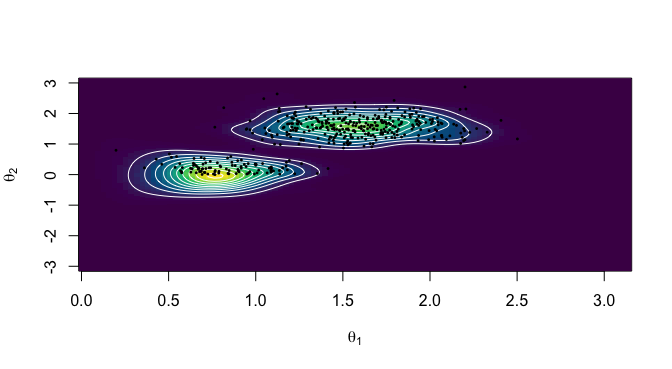
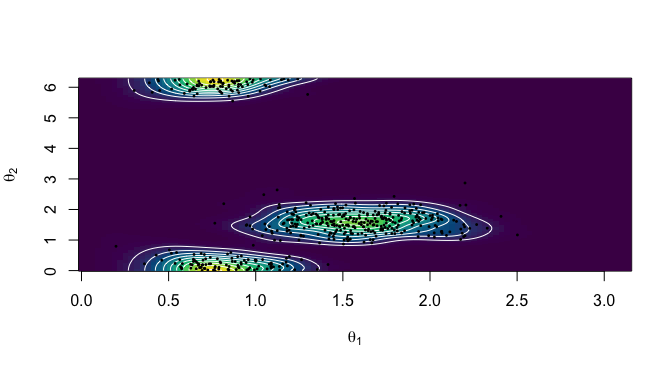
Update docs

diff --git a/README.md b/README.md
@@ -45,9 +45,8 @@ plus the vector `d` of dimensions.
 ### Density estimation on the sphere
 
 ``` r
-set.seed(42)
-
 # A two-component von Mises--Fisher mixture on S^2
+set.seed(42)
 d <- 2
 X <- r_mvmf_polysph(n = 500, d = d, mu = rbind(c(0, 0, 1), c(1, 1, 0) / sqrt(2)),
                     kappa = rbind(10, 25), prop = c(0.6, 0.4))
@@ -62,7 +61,7 @@ h
 # Evaluate the kernel density estimator on a grid of spherical angles, with
 # theta_1 the polar angle and theta_2 the azimuth
 th_1 <- seq(0, pi, l = 100)
-th_2 <- seq(-pi, pi, l = 200)
+th_2 <- seq(0, 2 * pi, l = 200)
 grid <- angles_to_sph(theta = as.matrix(expand.grid(th_1, th_2)))
 kde <- matrix(kde_polysph(x = grid, X = X, d = d, h = h), nrow = length(th_1))
 
@@ -78,10 +77,9 @@ points(sph_to_angles(x = X), pch = 16, cex = 0.4)
 ### Polyspherical data
 
 ``` r
-set.seed(423432)
-
 # A product of von Mises--Fisher distributions on S^1 x S^2: the r = 2 blocks
 # of unit vectors are concatenated by columns
+set.seed(42)
 d <- c(1, 2)
 mu <- c(0, 1, 0, 0, 1)
 kappa <- c(5, 10)
@@ -96,13 +94,13 @@ comp_ind_dj(d = d)
 # Least squares cross-validation, with the exact loss for the vMF kernel
 h <- bw_cv_polysph(X = X, d = d, type = "LSCV", exact_vmf = TRUE)$bw
 h
-#> [1] 0.1240745 0.1674424
+#> [1] 0.1416461 0.1750076
 
 # The estimator tracks the true density over the sample
 cor(kde_polysph(x = X, X = X, d = d, h = h),
     d_vmf_polysph(x = X, d = d, mu = mu, kappa = kappa))
 #>           [,1]
-#> [1,] 0.9059769
+#> [1,] 0.9002732
 ```
 
 ### Homogeneity tests
